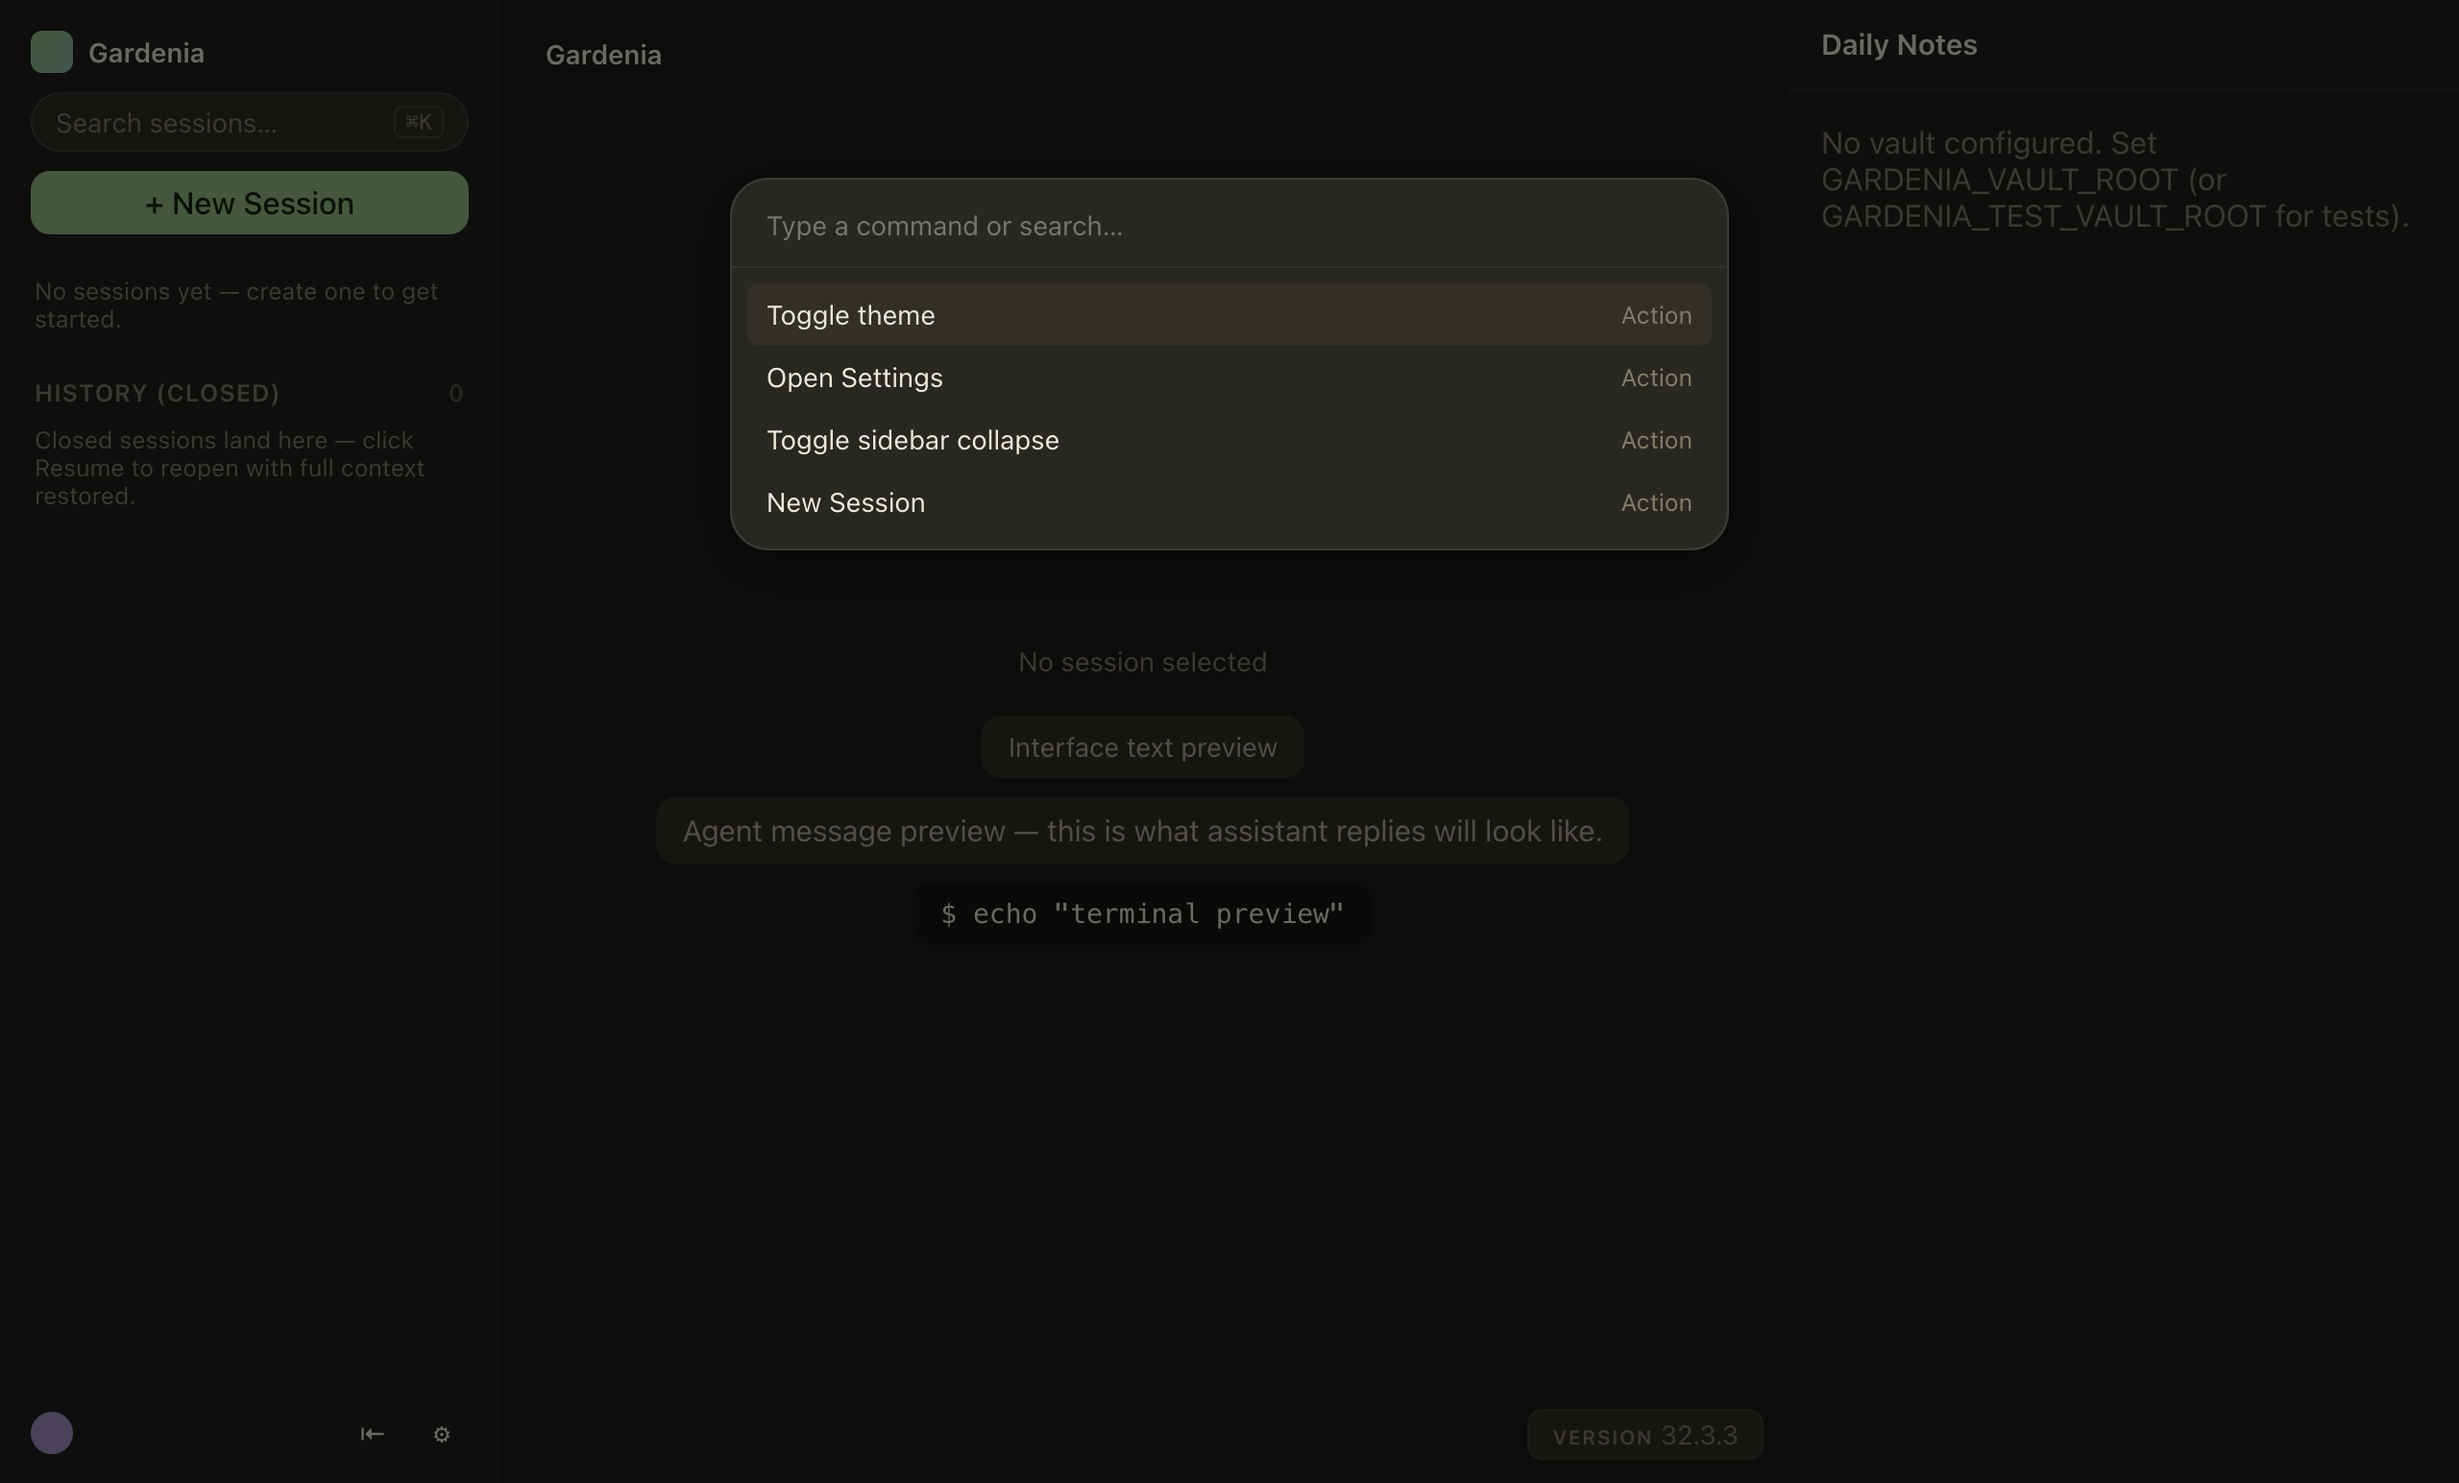
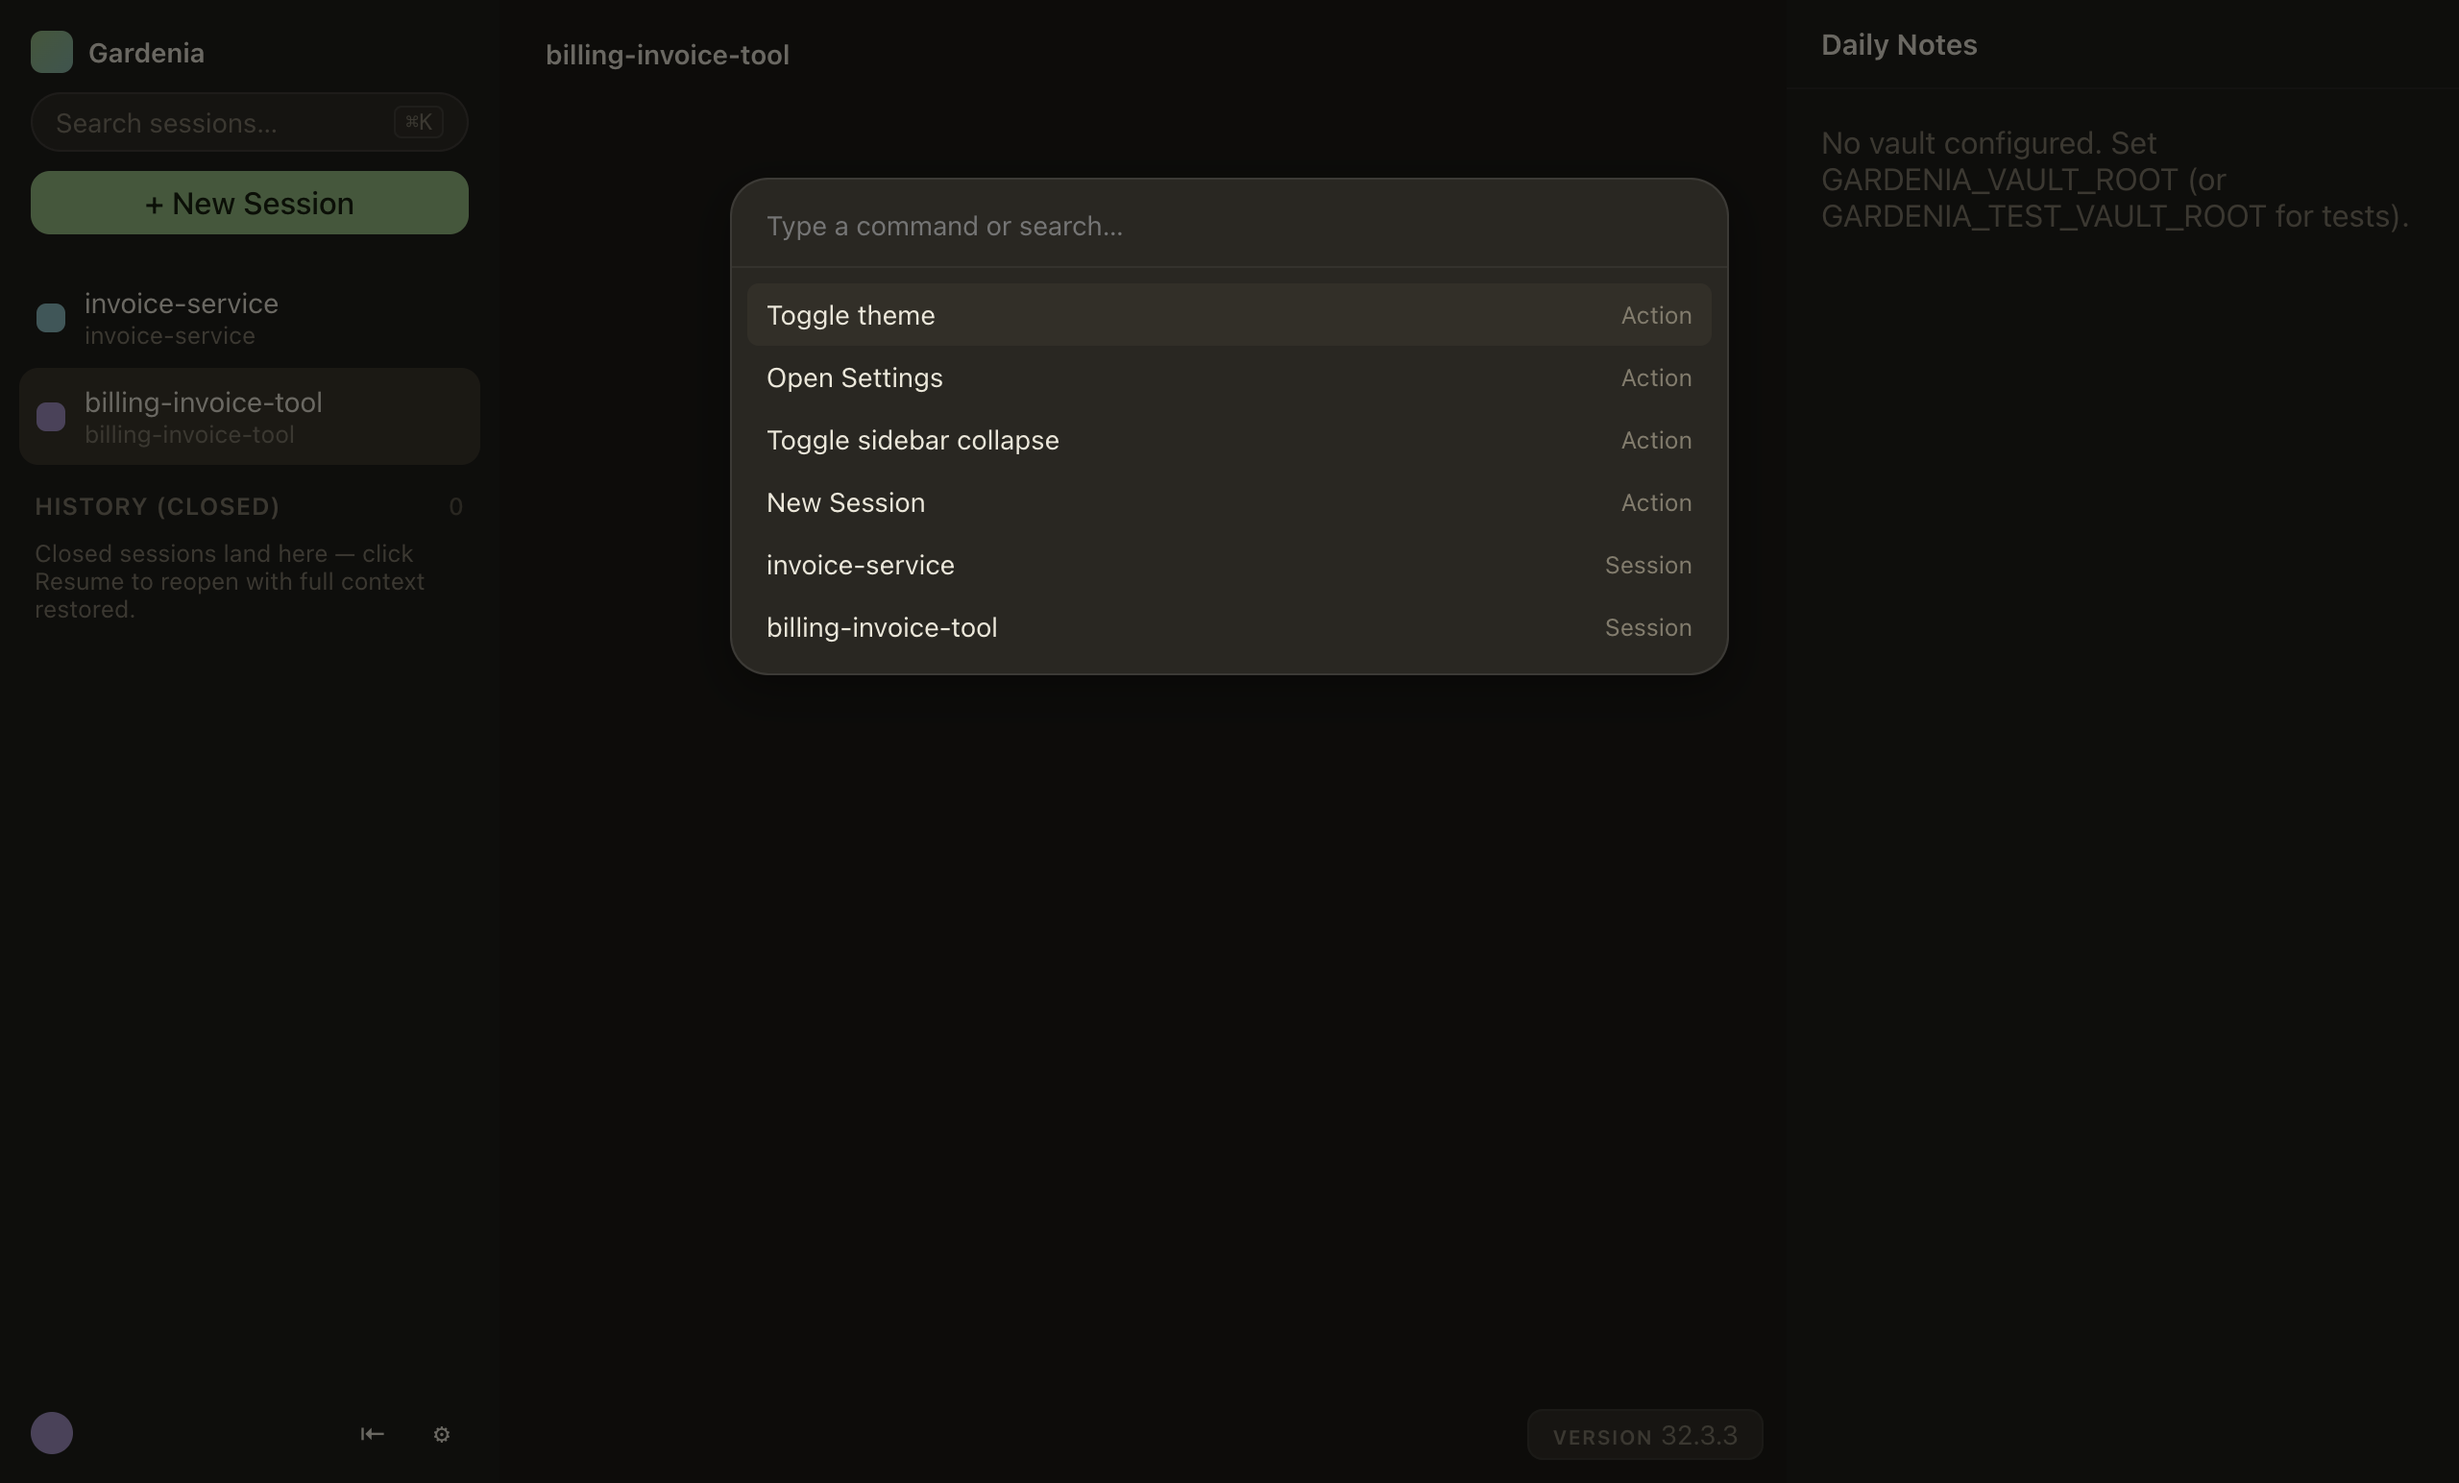
Fix command palette session-jump test to use real multi-session data
The failing e2e test searched for the hardcoded placeholder session
("Welcome session" / id "welcome") from the original 08 build. That
placeholder never existed once 02-session-lifecycle landed real session
data (fresh profiles start with zero sessions) — App.tsx's palette wiring
was already correctly sourced from useSessions(), same as Sidebar.tsx, so
this was a stale test fixture rather than a stale data path.

Update the test to create real sessions via the New Session modal and add
a disambiguation test case (two similarly-named sessions, fuzzy narrow,
Enter jumps to the correct one).

diff --git a/e2e/global-nav-and-settings.spec.ts b/e2e/global-nav-and-settings.spec.ts
@@ -1,7 +1,7 @@
 import { test, expect, _electron as electron, type ElectronApplication, type Page } from '@playwright/test'
 import { mkdtempSync, mkdirSync, readFileSync, existsSync, writeFileSync, rmSync } from 'node:fs'
 import { tmpdir } from 'node:os'
-import { join } from 'node:path'
+import { join, basename } from 'node:path'
 
 const mainEntry = join(__dirname, '..', 'out', 'main', 'index.js')
 const artifactsDir = join(__dirname, '..', 'e2e-artifacts')
@@ -19,10 +19,49 @@ function configPath(userDataDir: string): string {
   return join(userDataDir, 'data', 'config.json')
 }
 
+/** Stubs Electron's native folder-picker dialog to return a fixed path, so New Session can be driven headlessly (same pattern as session-lifecycle.spec.ts). */
+async function stubProjectFolder(app: ElectronApplication, path: string): Promise<void> {
+  await app.evaluate(({ dialog }, folderPath) => {
+    dialog.showOpenDialog = (async () => ({ canceled: false, filePaths: [folderPath] })) as typeof dialog.showOpenDialog
+  }, path)
+}
+
+/**
+ * Creates a real terminal-mode session (no agent/harness call, so it's fast
+ * and network-free) rooted at `projectDir`, and returns its real session id.
+ * The 08-global-nav-and-settings command palette originally shipped against
+ * a single hardcoded placeholder session ("Welcome session" / id "welcome");
+ * once 02-session-lifecycle landed real multi-session data, that id never
+ * existed, so palette tests need to create genuine sessions the same way
+ * a user would (via the New Session modal) rather than assuming a seeded
+ * placeholder.
+ */
+async function createTerminalSession(app: ElectronApplication, page: Page, projectDir: string): Promise<string> {
+  await stubProjectFolder(app, projectDir)
+  await page.getByTestId('new-session-button').click()
+  await expect(page.getByTestId('new-session-modal')).toBeVisible()
+  await page.getByTestId('pick-project-folder').click()
+  await expect(page.getByTestId('pick-project-folder')).toContainText(projectDir)
+  await page.getByTestId('mode-terminal').click()
+  await page.getByTestId('start-session-button').click()
+  await expect(page.getByTestId('new-session-modal')).toHaveCount(0)
+
+  const row = page.locator('[data-testid="session-row"]', { hasText: basename(projectDir) })
+  await expect(row).toBeVisible({ timeout: 15_000 })
+  return (await row.getAttribute('data-session-id')) as string
+}
+
 test.describe('command palette', () => {
   let electronApp: ElectronApplication
   let page: Page
   let userDataDir: string
+  // Two real sessions with a deliberately overlapping name substring
+  // ("invoice") so the palette tests below cover both a clean single-match
+  // lookup and fuzzy-match disambiguation between similarly named sessions.
+  let primarySessionId: string
+  let secondarySessionId: string
+  const primaryName = 'invoice-service'
+  const secondaryName = 'billing-invoice-tool'
 
   test.beforeAll(async () => {
     userDataDir = mkdtempSync(join(tmpdir(), 'gardenia-e2e-palette-'))
@@ -30,6 +69,14 @@ test.describe('command palette', () => {
     mkdirSync(join(userDataDir, 'data'), { recursive: true })
     writeFileSync(configPath(userDataDir), JSON.stringify({ onboardingCompleted: true }))
     ;({ app: electronApp, page } = await launchApp(userDataDir))
+
+    const primaryProjectDir = join(userDataDir, primaryName)
+    const secondaryProjectDir = join(userDataDir, secondaryName)
+    mkdirSync(primaryProjectDir, { recursive: true })
+    mkdirSync(secondaryProjectDir, { recursive: true })
+
+    primarySessionId = await createTerminalSession(electronApp, page, primaryProjectDir)
+    secondarySessionId = await createTerminalSession(electronApp, page, secondaryProjectDir)
   })
 
   test.afterAll(async () => {
@@ -65,16 +112,47 @@ test.describe('command palette', () => {
 
   test('typing a session name and pressing Enter jumps focus to that session', async () => {
     const input = page.getByTestId('command-palette-input')
-    await input.fill('Welcome session')
+    // Full name of the *primary* session only — "billing-invoice-tool" does
+    // not contain this substring, so this must resolve to exactly one item.
+    await input.fill(primaryName)
     await expect(page.getByTestId('command-palette-item')).toHaveCount(1)
+    mkdirSync(artifactsDir, { recursive: true })
+    await page.screenshot({ path: join(artifactsDir, 'palette-jump-fix.png') })
     await page.keyboard.press('Enter')
 
     await expect(page.getByTestId('command-palette')).toHaveCount(0)
 
-    const row = page.locator('[data-testid="session-row"][data-session-id="welcome"]')
+    const row = page.locator(`[data-testid="session-row"][data-session-id="${primarySessionId}"]`)
     await expect(row).toHaveAttribute('data-active', 'true')
     const isFocused = await row.evaluate((el) => el === document.activeElement)
     expect(isFocused).toBe(true)
+  })
+
+  test('fuzzy-matching a shared substring shows both similarly named sessions, then narrowing jumps to the right one', async () => {
+    await page.keyboard.press('ControlOrMeta+k')
+    const input = page.getByTestId('command-palette-input')
+
+    // Both session names share "invoice" — a real multi-session disambiguation
+    // case that a single hardcoded placeholder session could never exercise.
+    await input.fill('invoice')
+    await expect(page.getByTestId('command-palette-item')).toHaveCount(2)
+
+    // Narrow to a substring unique to the *secondary* session and confirm
+    // Enter jumps to that one specifically, not "any session".
+    await input.fill('billing')
+    await expect(page.getByTestId('command-palette-item')).toHaveCount(1)
+    await expect(page.getByTestId('command-palette-item').first()).toContainText(secondaryName)
+    await page.keyboard.press('Enter')
+
+    await expect(page.getByTestId('command-palette')).toHaveCount(0)
+
+    const targetRow = page.locator(`[data-testid="session-row"][data-session-id="${secondarySessionId}"]`)
+    await expect(targetRow).toHaveAttribute('data-active', 'true')
+    const isFocused = await targetRow.evaluate((el) => el === document.activeElement)
+    expect(isFocused).toBe(true)
+
+    const otherRow = page.locator(`[data-testid="session-row"][data-session-id="${primarySessionId}"]`)
+    await expect(otherRow).toHaveAttribute('data-active', 'false')
   })
 
   test('theme toggle from the palette flips data-theme and re-renders', async () => {
